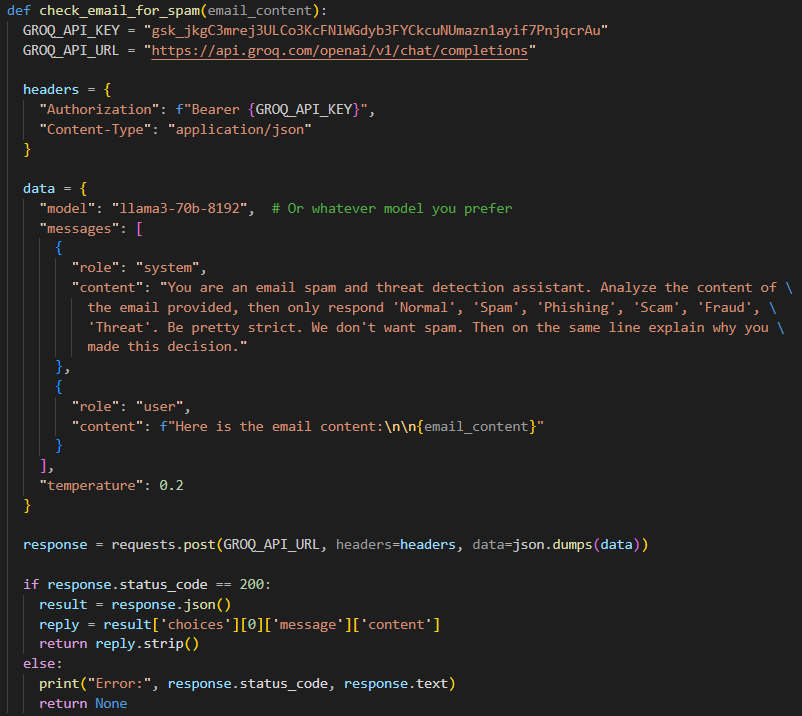
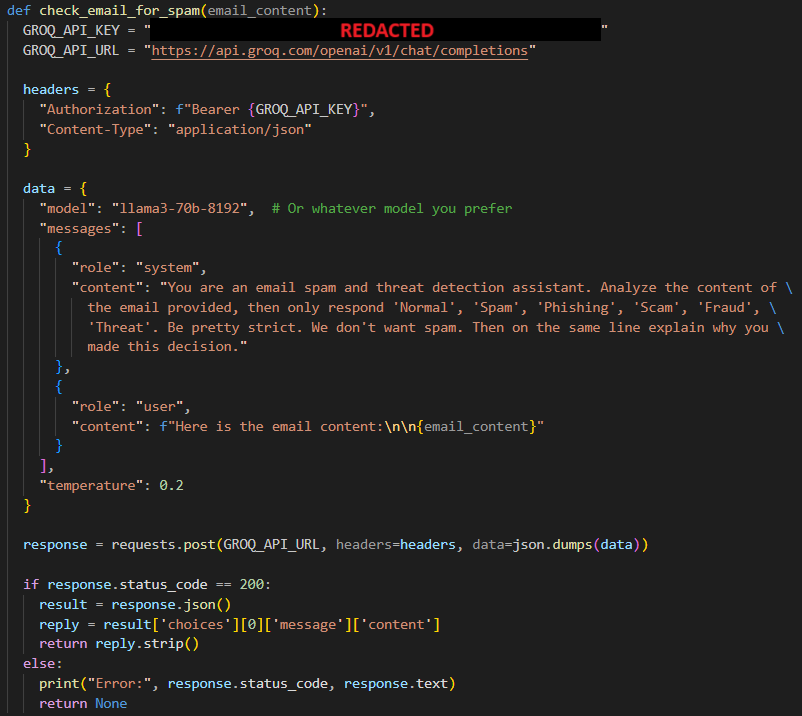
save before heading home

Changed region(s): [[0.187, 0.0, 0.7481, 0.0615]]

diff --git a/README.md b/README.md
@@ -81,7 +81,7 @@ This Python module is reponsible for analyzing the email contents and attachment
 |-------------------------------|-------------|
 | ![Screenshot of the first part of the scan message function](./readme_images/analyze_categories.png)&nbsp;&nbsp;&nbsp;&nbsp;&nbsp;&nbsp;&nbsp;&nbsp;&nbsp;&nbsp;&nbsp;&nbsp;&nbsp;&nbsp;&nbsp;&nbsp;&nbsp;&nbsp;&nbsp;&nbsp; | This section of the code begins by creating an empty dictionary of file hashes that have already been scanned. Some of the emails have common attachments such as encryption keys attached to Proton mail emails, or image attachments that are part of signature blocks. This hash scan history dictionary was the solution to speed up scan time by only passing new hashes and files to VirusTotal. The `scan_message` function calls the `check_email_for_spam` function that makes a Groq API call to analyze the contents of the email and assign a category. The `scan_message` function then assigns a category color and recommendation based on the category assigned. |
 | ![Screenshot of the second part of the scan message function](./readme_images/analyze_attachments.png)&nbsp;&nbsp;&nbsp;&nbsp;&nbsp;&nbsp;&nbsp;&nbsp;&nbsp;&nbsp;&nbsp;&nbsp;&nbsp;&nbsp;&nbsp;&nbsp;&nbsp;&nbsp;&nbsp;&nbsp; | This section of the code is a continuation of the `scan_message` function. This portion calls the `virus_total_file_scan` function that sends the attachments payload to the VirusTotal API to be scanned for malware. When the results are returned, the code then assigns a result name and color to the attachment. |
-| ![Screenshot of the function that calls the Groq API](./readme_images/analyze_groq.png)&nbsp;&nbsp;&nbsp;&nbsp;&nbsp;&nbsp;&nbsp;&nbsp;&nbsp;&nbsp;&nbsp;&nbsp;&nbsp;&nbsp;&nbsp;&nbsp;&nbsp;&nbsp;&nbsp;&nbsp; | This portion of the code is the `check_email_for_spam` function. The function makes a Groq API call to use Llama 3 70B to analyze the contents of the email and assign a category. |
+| ![Screenshot of the function that calls the Groq API](./readme_images/analyze_groq.png)&nbsp;&nbsp;&nbsp;&nbsp;&nbsp;&nbsp;&nbsp;&nbsp;&nbsp;&nbsp;&nbsp;&nbsp;&nbsp;&nbsp;&nbsp;&nbsp;&nbsp;&nbsp;&nbsp;&nbsp; | This portion of the code is the `check_email_for_spam` function. The function makes a Groq API call to use Llama 3 70B to analyze the contents of the email and assign a category. The Groq API key is currently hard coded and should be removed to a configuration file for better security. |
 | ![Screenshot of the function that calls the VirusTotal API](./readme_images/analyze_scan.png)&nbsp;&nbsp;&nbsp;&nbsp;&nbsp;&nbsp;&nbsp;&nbsp;&nbsp;&nbsp;&nbsp;&nbsp;&nbsp;&nbsp;&nbsp;&nbsp;&nbsp;&nbsp;&nbsp;&nbsp; | This section of the code is the `virus_total_file_scan` function. The function firsts attempts to querry scan results based on the file hash alone which is faster, and if the hash does not exist in VirusTotal's database then the code sends the full file to be scanned for malware. |
 
 ### Python Code that Generates HTML Report (./Python/report.py)
